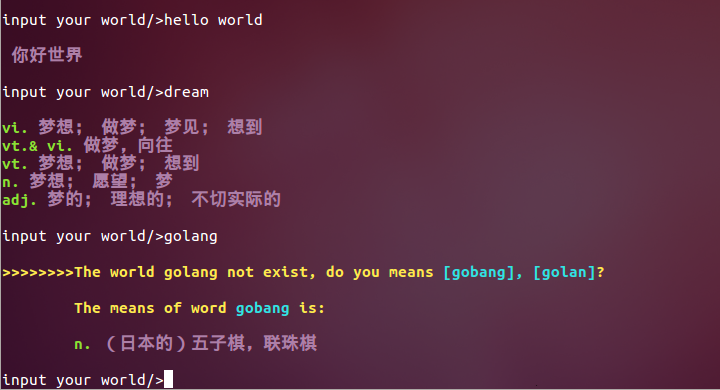
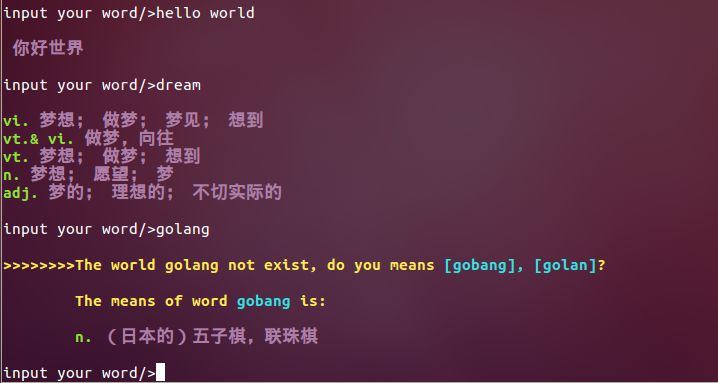
fix hint error defect.

diff --git a/src/lunch.go b/src/lunch.go
@@ -169,7 +169,7 @@ func main(){
 	bio:=bufio.NewReader(os.Stdin)
 	for ;true;{
 		word=""
-		fmt.Printf("input your world/>")
+		fmt.Printf("input your word/>")
 		line ,_,err:=bio.ReadLine()
 		if err !=nil{
 			showError(err)
